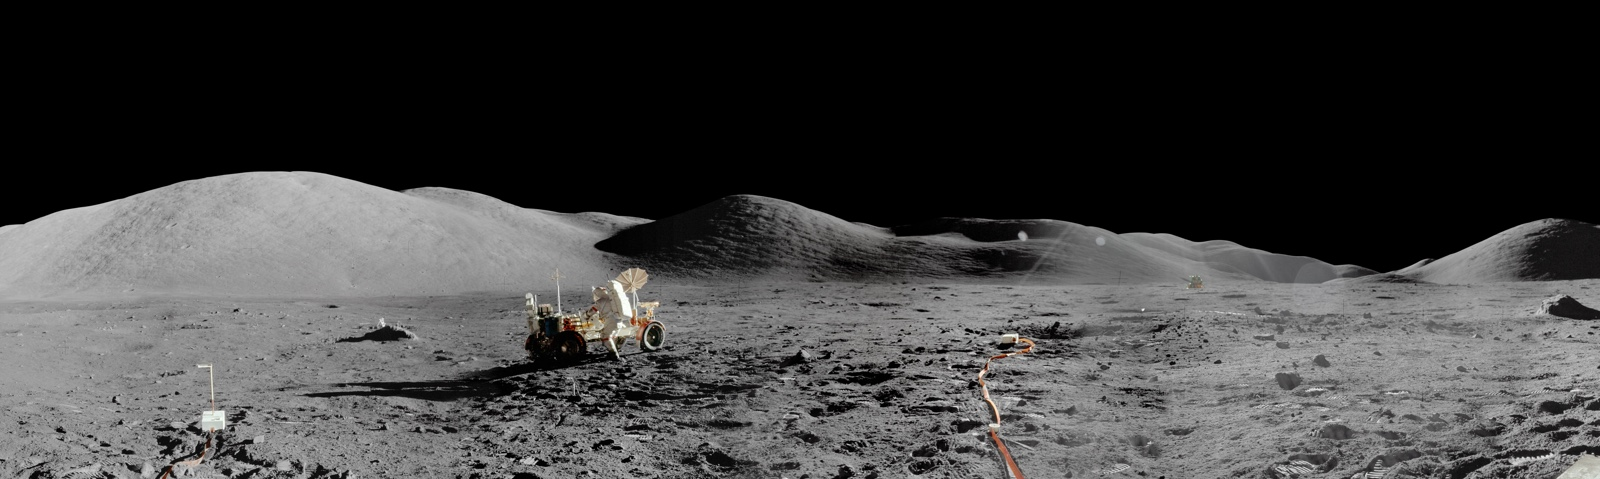
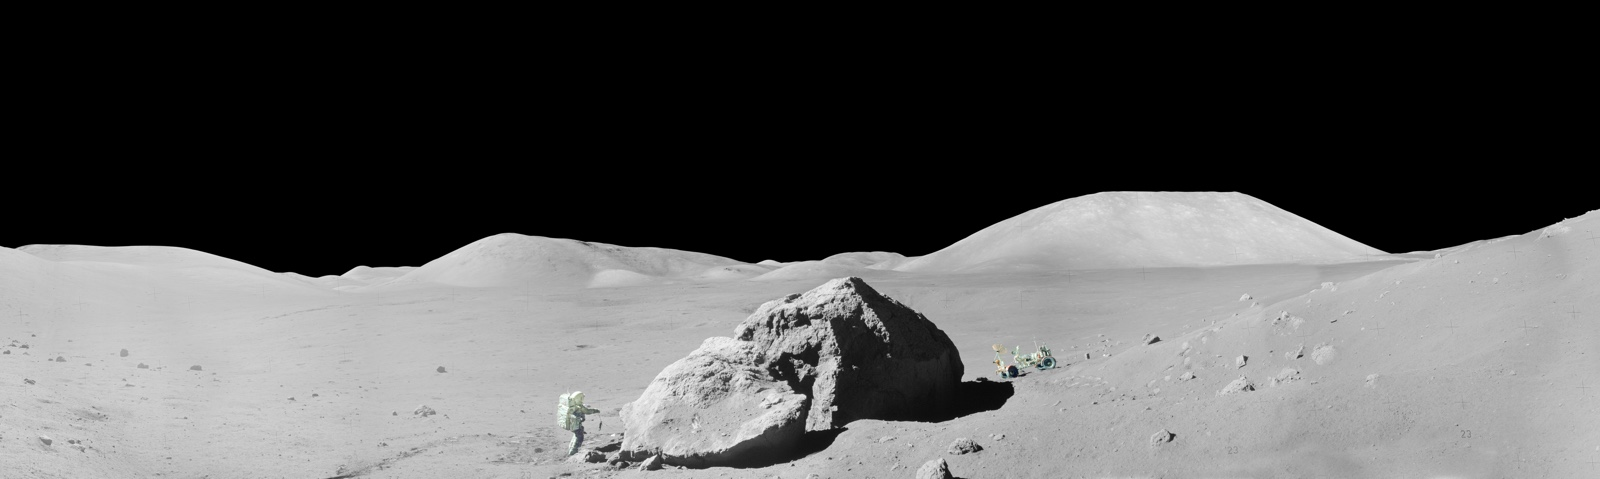
new bg image again...

diff --git a/_Website/_webroot/styles.css b/_Website/_webroot/styles.css
@@ -885,7 +885,7 @@ body.splash-loaded .splash-content {
 .splash-content .content-wrapper {
   position: relative;
   padding-right: 3em;
-  
+
   text-shadow: 1px 1px 16px rgba(0, 0, 0, 1),1px 1px 16px rgba(0, 0, 0, 1),1px 1px 16px rgba(0, 0, 0, 1);
 }
 .splash-content .content-wrapper:after {
@@ -935,6 +935,8 @@ body.splash-loaded .splash-content {
   cursor: not-allowed;
   /*font-family: 'Michroma', sans-serif;*/
   font-family: 'Oswald', sans-serif;
+  border-right: 1px solid rgba(130, 130, 130, .8);
+  border-bottom: 1px solid rgba(130, 130, 130, .8);
 
   background-color: #828282;
   background-color: rgba(130, 130, 130, .8);
@@ -976,6 +978,8 @@ body.app-ready .splash-btn.primary {
   box-shadow: inset 1px 1px 5px 3px #A67754;
   background-color: #FFC688;
   background-color: rgba(255, 198, 136, .8);
+  border-right: 1px solid rgba(255, 198, 136, .8);
+  border-bottom: 1px solid rgba(255, 198, 136, .8);
 }
 body.app-ready .splash-btn.primary:hover,
 body.app-ready .splash-btn.primary:active,